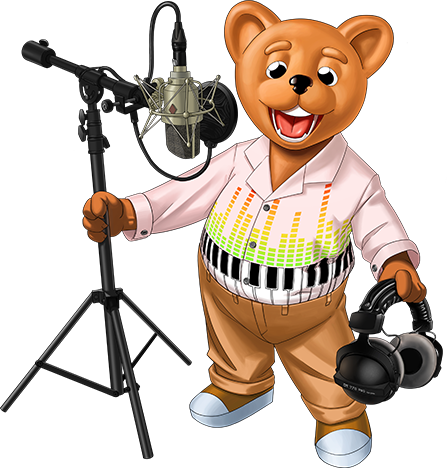
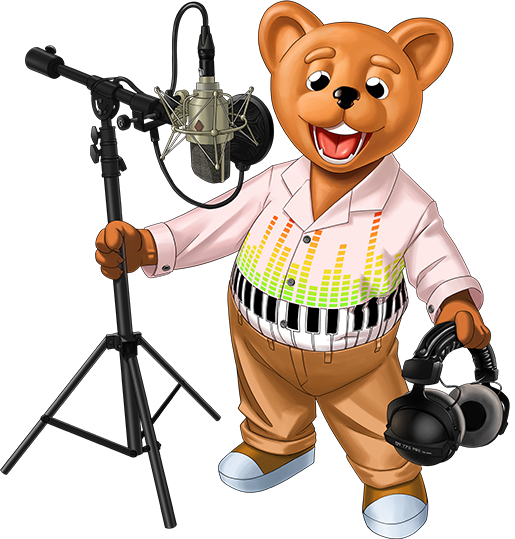
fix contact page

diff --git a/css/style.css b/css/style.css
@@ -283,7 +283,7 @@ a.menu__link {
 .page_n11 {
   width: 100%;
   min-height: 100vh;
-  background: url(../img/monhd_page11_with_bear.jpg);
+  background: url(../img/monhd_page11.jpg);
   background-position: center center;
   background-repeat: no-repeat;
   /* background-attachment: fixed; */
@@ -573,24 +573,65 @@ a {
   flex-direction: column;
 }
 .header_page11 {
+  margin-top: 2%;
+  width: 100%;
+  height: calc(100vh * 0.5);
   display: flex;
+  justify-content: space-between;
+}
+
+.indent {
+  flex: 1 1 auto;
+  width: 5%;
+}
+.video_bear {
+  flex: 1 1 auto;
+  width: 30%;
+  /* height: 100%; */
+  background: url(../img/video_bear.png);
+  background-position: center center;
+  background-repeat: no-repeat;
+
+  background-size: contain;
+
+  /* object-fit: contain; */
+}
+
+.audio_bear {
+  flex: 1 1 auto;
+  width: 30%;
+  /* height: 100%; */
+  background: url(../img/audio_bear.png);
+  background-position: center center;
+  background-repeat: no-repeat;
+
+  background-size: contain;
 }
 
 .slogan {
-  padding-left: 20%;
-  font-size: 6vw;
-  line-height: 90%;
-  margin-top: 2%;
+  padding-top: 10%;
+  /* padding-left: 20%; */
+  font-size: calc(100vh * 0.06);
+  line-height: 98%;
+  width: 30%;
+  flex: 1 1 auto;
+  /* margin-top: 2%; */
 }
 
-.social {
+.footer_page11 {
+  width: 100%;
   display: flex;
   justify-content: center;
 }
+.social {
+  display: flex;
+  width: 30%;
+  justify-content: space-around;
+}
 
 .cocial__img {
-  margin: 0 30px 10% 0;
-  width: calc(100vw / 25);
+  margin: 0 0 15% 0;
+  width: calc(100vw / 20);
 }
 
 .cocial__img:hover {

diff --git a/index.html b/index.html
@@ -1472,6 +1472,10 @@
             <div class="page_n11">
               <div class="wrapper__content_pg11">
                 <div class="header_page11">
+                  <div class="indent"></div>
+                  <div class="video_bear">
+                    <!-- <img src="./img/video_bear.png" alt="" /> -->
+                  </div>
                   <div class="slogan">
                     <h2
                       data-i18n="Ми знiмаємо вiдео"
@@ -1486,6 +1490,9 @@
                       data-i18n-ru="и записываем звук!"
                       data-i18n-en="and record sound!"
                     ></h2>
+                  </div>
+                  <div class="audio_bear">
+                    <!-- <img src="./img/audio_bear.png" alt="" /> -->
                   </div>
                 </div>
                 <div class="footer_page11">
@@ -1516,7 +1523,7 @@
                     </a>
                   </div>
                   <div class="bear_page11">
-                    <img src="./img/misha_monhd_page11.png" alt="Mishanya" />
+                    <img src="./img/video_bear.png" alt="Mishanya" />
                   </div>
                 </div>
                 <div class="copyright mobile__content">
